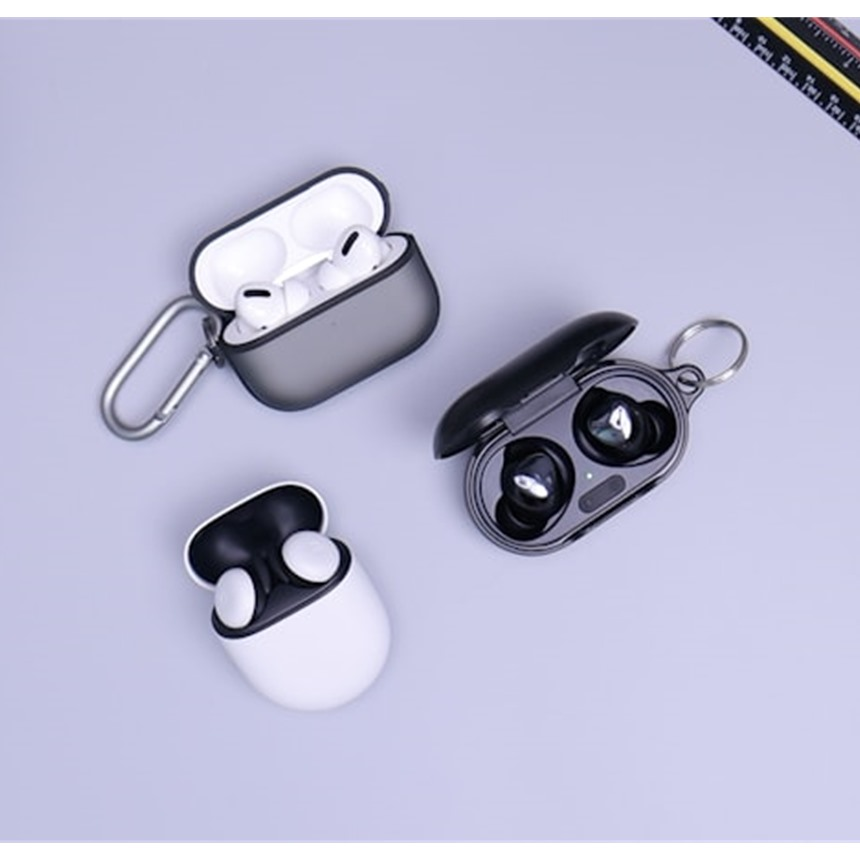
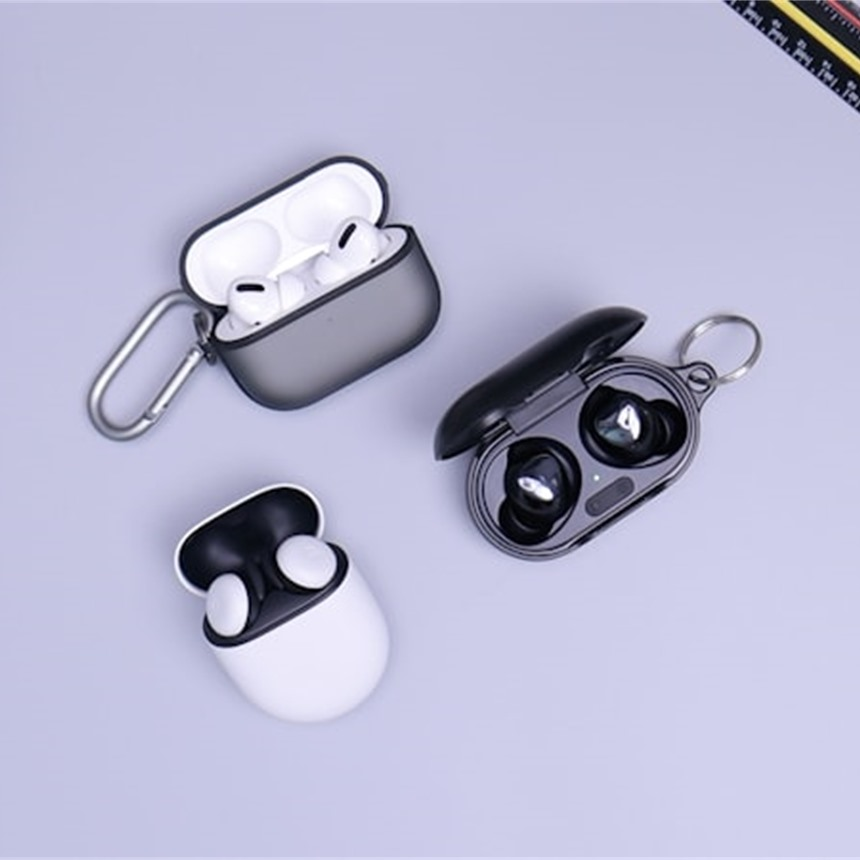
Remove SoundShoppie card letterbox bars with edge-to-edge cover fills.

diff --git a/doomsday/soundshoppie/index.html b/doomsday/soundshoppie/index.html
@@ -201,7 +201,7 @@
         height: 100% !important;
         max-width: none !important;
         max-height: none !important;
-        object-fit: contain !important; /* never stretch or crop */
+        object-fit: cover !important; /* fill frame; crop letterbox edges */
         object-position: center center !important;
         background: #fff !important;
         padding: 0 !important;
@@ -472,7 +472,7 @@
         <div class="card-deck d-flex justify-content-center align-items-stretch flex-wrap">
           <div class="product-card m-2">
             <div class="image-container">
-              <img class="card-img-top" src="./products/wh-1000xm.jpg?v=8" alt="Sony WH-1000XM4" />
+              <img class="card-img-top" src="./products/wh-1000xm.jpg?v=9" alt="Sony WH-1000XM4" />
             </div>
             <div class="card-body">
               <h5 class="card-title">WH-1000XM4</h5>
@@ -487,7 +487,7 @@
           </div>
           <div class="product-card m-2">
             <div class="image-container">
-              <img class="card-img-top" src="./products/qc45.jpg?v=8" alt="Bose QuietComfort 45" />
+              <img class="card-img-top" src="./products/qc45.jpg?v=9" alt="Bose QuietComfort 45" />
             </div>
             <div class="card-body">
               <h5 class="card-title">QC45</h5>
@@ -502,7 +502,7 @@
           </div>
           <div class="product-card m-2">
             <div class="image-container">
-              <img class="card-img-top" src="./products/ie-600.jpg?v=8" alt="Sennheiser IE 600" />
+              <img class="card-img-top" src="./products/ie-600.jpg?v=9" alt="Sennheiser IE 600" />
             </div>
             <div class="card-body">
               <h5 class="card-title">IE 600</h5>
@@ -517,7 +517,7 @@
           </div>
           <div class="product-card m-2">
             <div class="image-container">
-              <img class="card-img-top" src="./products/ath-m50.jpg?v=8" alt="Audio-Technica ATH-M50x" />
+              <img class="card-img-top" src="./products/ath-m50.jpg?v=9" alt="Audio-Technica ATH-M50x" />
             </div>
             <div class="card-body">
               <h5 class="card-title">ATH-M50x</h5>
@@ -532,7 +532,7 @@
           </div>
           <div class="product-card m-2">
             <div class="image-container">
-              <img class="card-img-top" src="./products/tune-760.jpg?v=8" alt="JBL Tune 760NC" />
+              <img class="card-img-top" src="./products/tune-760.jpg?v=9" alt="JBL Tune 760NC" />
             </div>
             <div class="card-body">
               <h5 class="card-title">Tune 760NC</h5>
@@ -550,7 +550,7 @@
               <span class="badge rounded-pill badge-notification bg-danger">
                 <div><div class="m-1">15 %</div><div class="m-1">off</div></div>
               </span>
-              <img class="card-img-top" src="./products/wf-1000.jpg?v=8" alt="Sony WF-1000XM4" />
+              <img class="card-img-top" src="./products/wf-1000.jpg?v=9" alt="Sony WF-1000XM4" />
             </div>
             <div class="card-body">
               <h5 class="card-title">WF-1000XM4</h5>
@@ -566,7 +566,7 @@
           </div>
           <div class="product-card m-2">
             <div class="image-container">
-              <img class="card-img-top" src="./products/t5-ii.jpg?v=8" alt="Klipsch T5 II" />
+              <img class="card-img-top" src="./products/t5-ii.jpg?v=9" alt="Klipsch T5 II" />
             </div>
             <div class="card-body">
               <h5 class="card-title">T5 II</h5>
@@ -582,7 +582,7 @@
           <div class="product-card m-2">
             <div class="image-container">
               <div class="overlay"><p class="overlay-text">Out of Stock</p></div>
-              <img class="card-img-top" src="./products/hd-660.jpg?v=8" alt="Sennheiser HD 660S2" />
+              <img class="card-img-top" src="./products/hd-660.jpg?v=9" alt="Sennheiser HD 660S2" />
             </div>
             <div class="card-body">
               <h5 class="card-title">HD 660S2</h5>

diff --git a/doomsday/soundshoppie/style/style.css b/doomsday/soundshoppie/style/style.css
@@ -59,7 +59,7 @@ body {
 .product-card .card-img-top {
   width: 100%;
   height: 100%;
-  object-fit: contain;
+  object-fit: cover;
   object-position: center center;
 }
 
